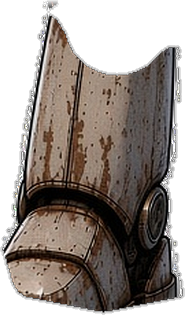
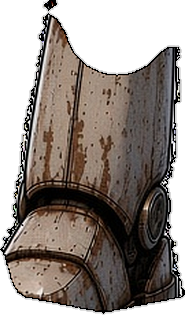
fight3d: make Ipo and Tank part interiors fully opaque
White-bg / luminance-keyed mattes left mid-alpha on pale gi and light
rust metal, so the stadium showed through their bodies. Flood-fill from
the outside, set interior alpha to 255, keep a 1-2px antialiased edge.

diff --git a/fighter-art/rig/tools/harden_part_alpha.py b/fighter-art/rig/tools/harden_part_alpha.py
@@ -1,0 +1,82 @@
+#!/usr/bin/env python3
+"""Make every part's interior fully opaque.
+
+Flood-fill from the canvas border through low-alpha pixels to mark the true
+background. Everything inside the silhouette gets alpha 255 (RGB inpainted
+where a hole was keyed out). A 1-2 px antialiased edge is left alone so
+outlines stay smooth. Does not crop, so skin.json offsets stay valid.
+"""
+from __future__ import annotations
+import os, sys, json
+import numpy as np
+import cv2
+from PIL import Image
+
+EDGE_PX = 2.0
+OUTSIDE_THR = 10  # alpha below this is treated as empty for the flood
+
+
+def harden(arr: np.ndarray, edge_px: float = EDGE_PX, outside_thr: int = OUTSIDE_THR) -> np.ndarray:
+    a = arr[..., 3]
+    h, w = a.shape
+    empty = (a < outside_thr).astype(np.uint8)
+    pad = np.pad(empty, 1, constant_values=1)
+    _, lab = cv2.connectedComponents(pad, 8)
+    outside = lab[1:-1, 1:-1] == lab[0, 0]
+    sil = ~outside
+    if not sil.any():
+        return arr
+    dist = cv2.distanceTransform(sil.astype(np.uint8), cv2.DIST_L2, 5)
+    interior = sil & (dist > edge_px)
+    out = arr.copy()
+    # Inpaint RGB for interior holes so we don't leave premultiplied black/white
+    need = interior & (a < 16)
+    if need.any():
+        mask = need.astype(np.uint8) * 255
+        # Seed inpaint with nearby opaque colors; TELEA fills small keyed holes
+        rgb = cv2.inpaint(out[..., :3], mask, 5, cv2.INPAINT_TELEA)
+        out[..., :3] = rgb
+    out[interior, 3] = 255
+    out[outside, 3] = 0
+    # Don't invent edge coverage: leave the 1-2 px band's existing AA,
+    # but snap near-solid edge pixels up so a 254 fringe doesn't linger inward.
+    band = sil & ~interior
+    near = band & (out[..., 3] >= 220)
+    out[near, 3] = 255
+    return out
+
+
+def process_folder(fighter: str, dry=False):
+    root = os.path.abspath(os.path.join(os.path.dirname(__file__), '..', fighter))
+    parts = os.path.join(root, 'parts')
+    changed = []
+    for fn in sorted(os.listdir(parts)):
+        if not fn.endswith('.png'):
+            continue
+        path = os.path.join(parts, fn)
+        im = np.array(Image.open(path).convert('RGBA'))
+        hard = harden(im)
+        # stats
+        a0, a1 = im[..., 3], hard[..., 3]
+        from cv2 import erode, getStructuringElement, MORPH_ELLIPSE
+        k = getStructuringElement(MORPH_ELLIPSE, (5, 5))
+        interior0 = erode((a0 > 20).astype(np.uint8), k, 1).astype(bool)
+        n_before = int((interior0 & (a0 < 255)).sum()) if interior0.any() else 0
+        interior1 = erode((a1 > 20).astype(np.uint8), k, 1).astype(bool)
+        n_after = int((interior1 & (a1 < 255)).sum()) if interior1.any() else 0
+        same = np.array_equal(im, hard)
+        print(f'  {fn:18s} int_lt255 {n_before:6d} -> {n_after:6d}  {"unchanged" if same else "hardened"}')
+        if not same and not dry:
+            Image.fromarray(hard).save(path, optimize=True, compress_level=9)
+            changed.append(fn)
+    folder = sum(os.path.getsize(os.path.join(r, f)) for r, _, fs in os.walk(root) for f in fs)
+    print(f'{fighter}: {len(changed)} files written, folder {folder} ({folder/1024/1024:.2f} MB)'
+          f' {"OVER 2MB" if folder > 2_000_000 else "ok"}')
+    return folder, changed
+
+
+if __name__ == '__main__':
+    targets = sys.argv[1:] or ['ipo', 'tank']
+    for t in targets:
+        print(f'======= {t} =======')
+        process_folder(t)
